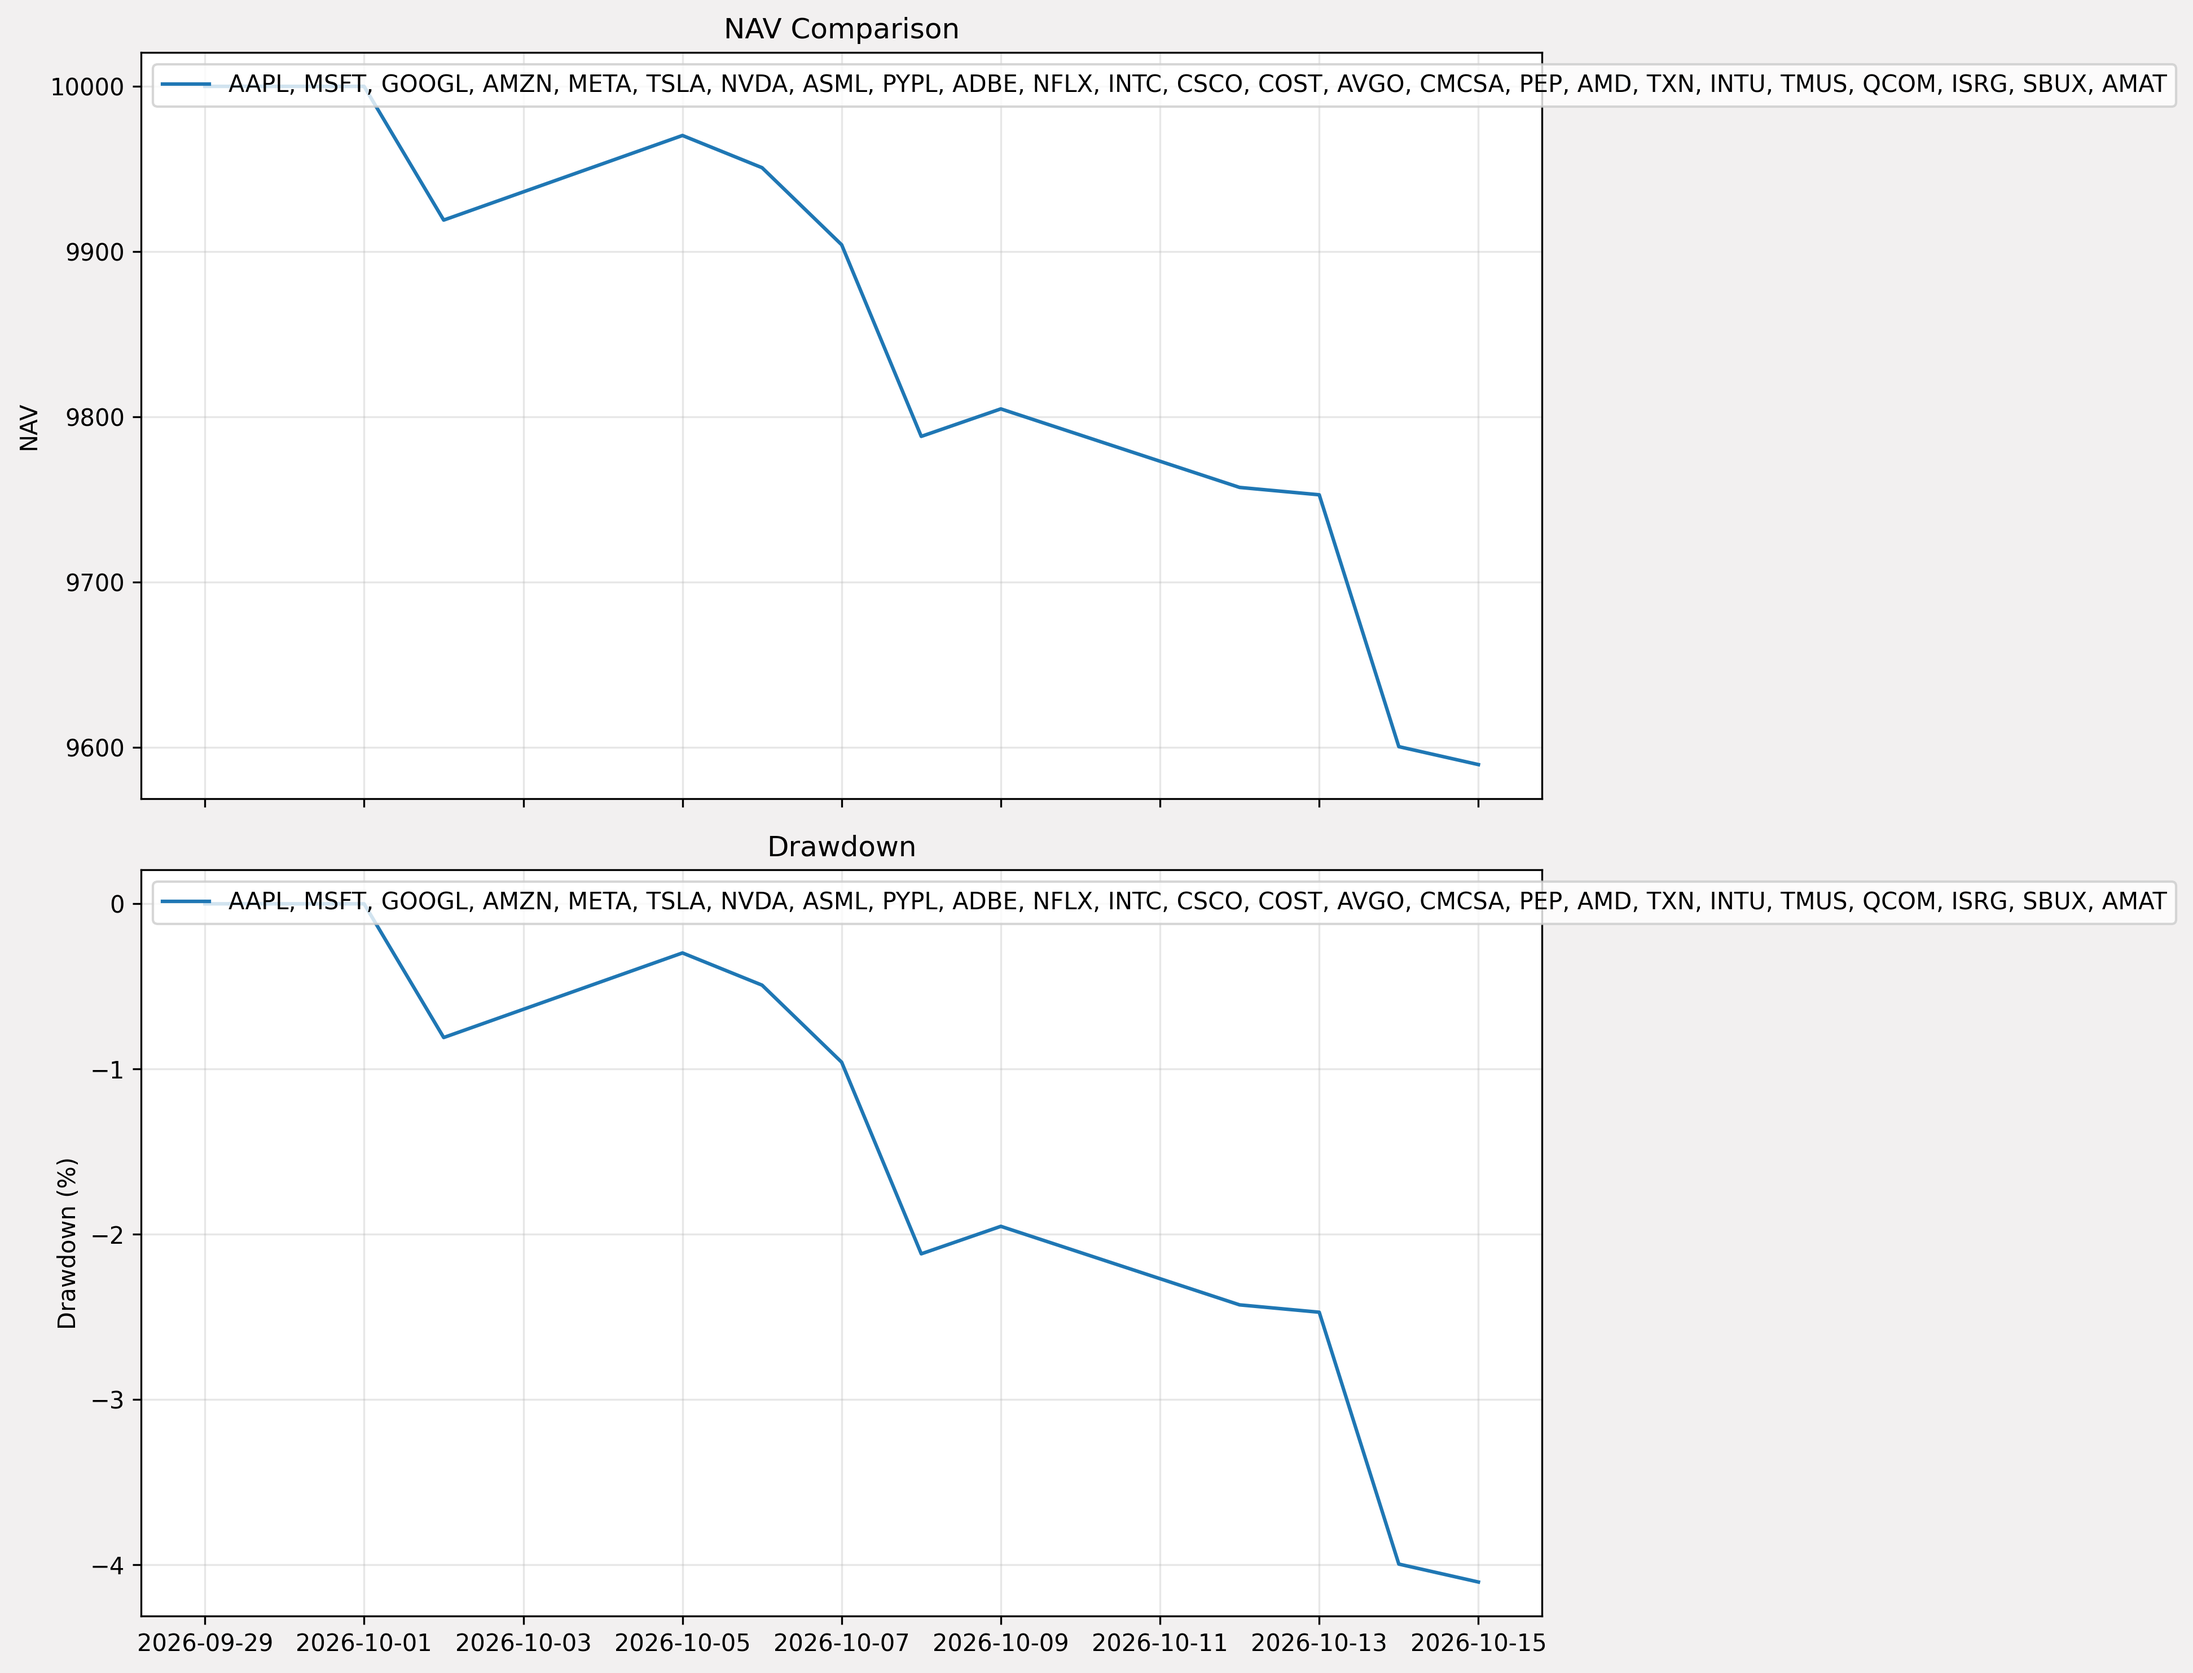
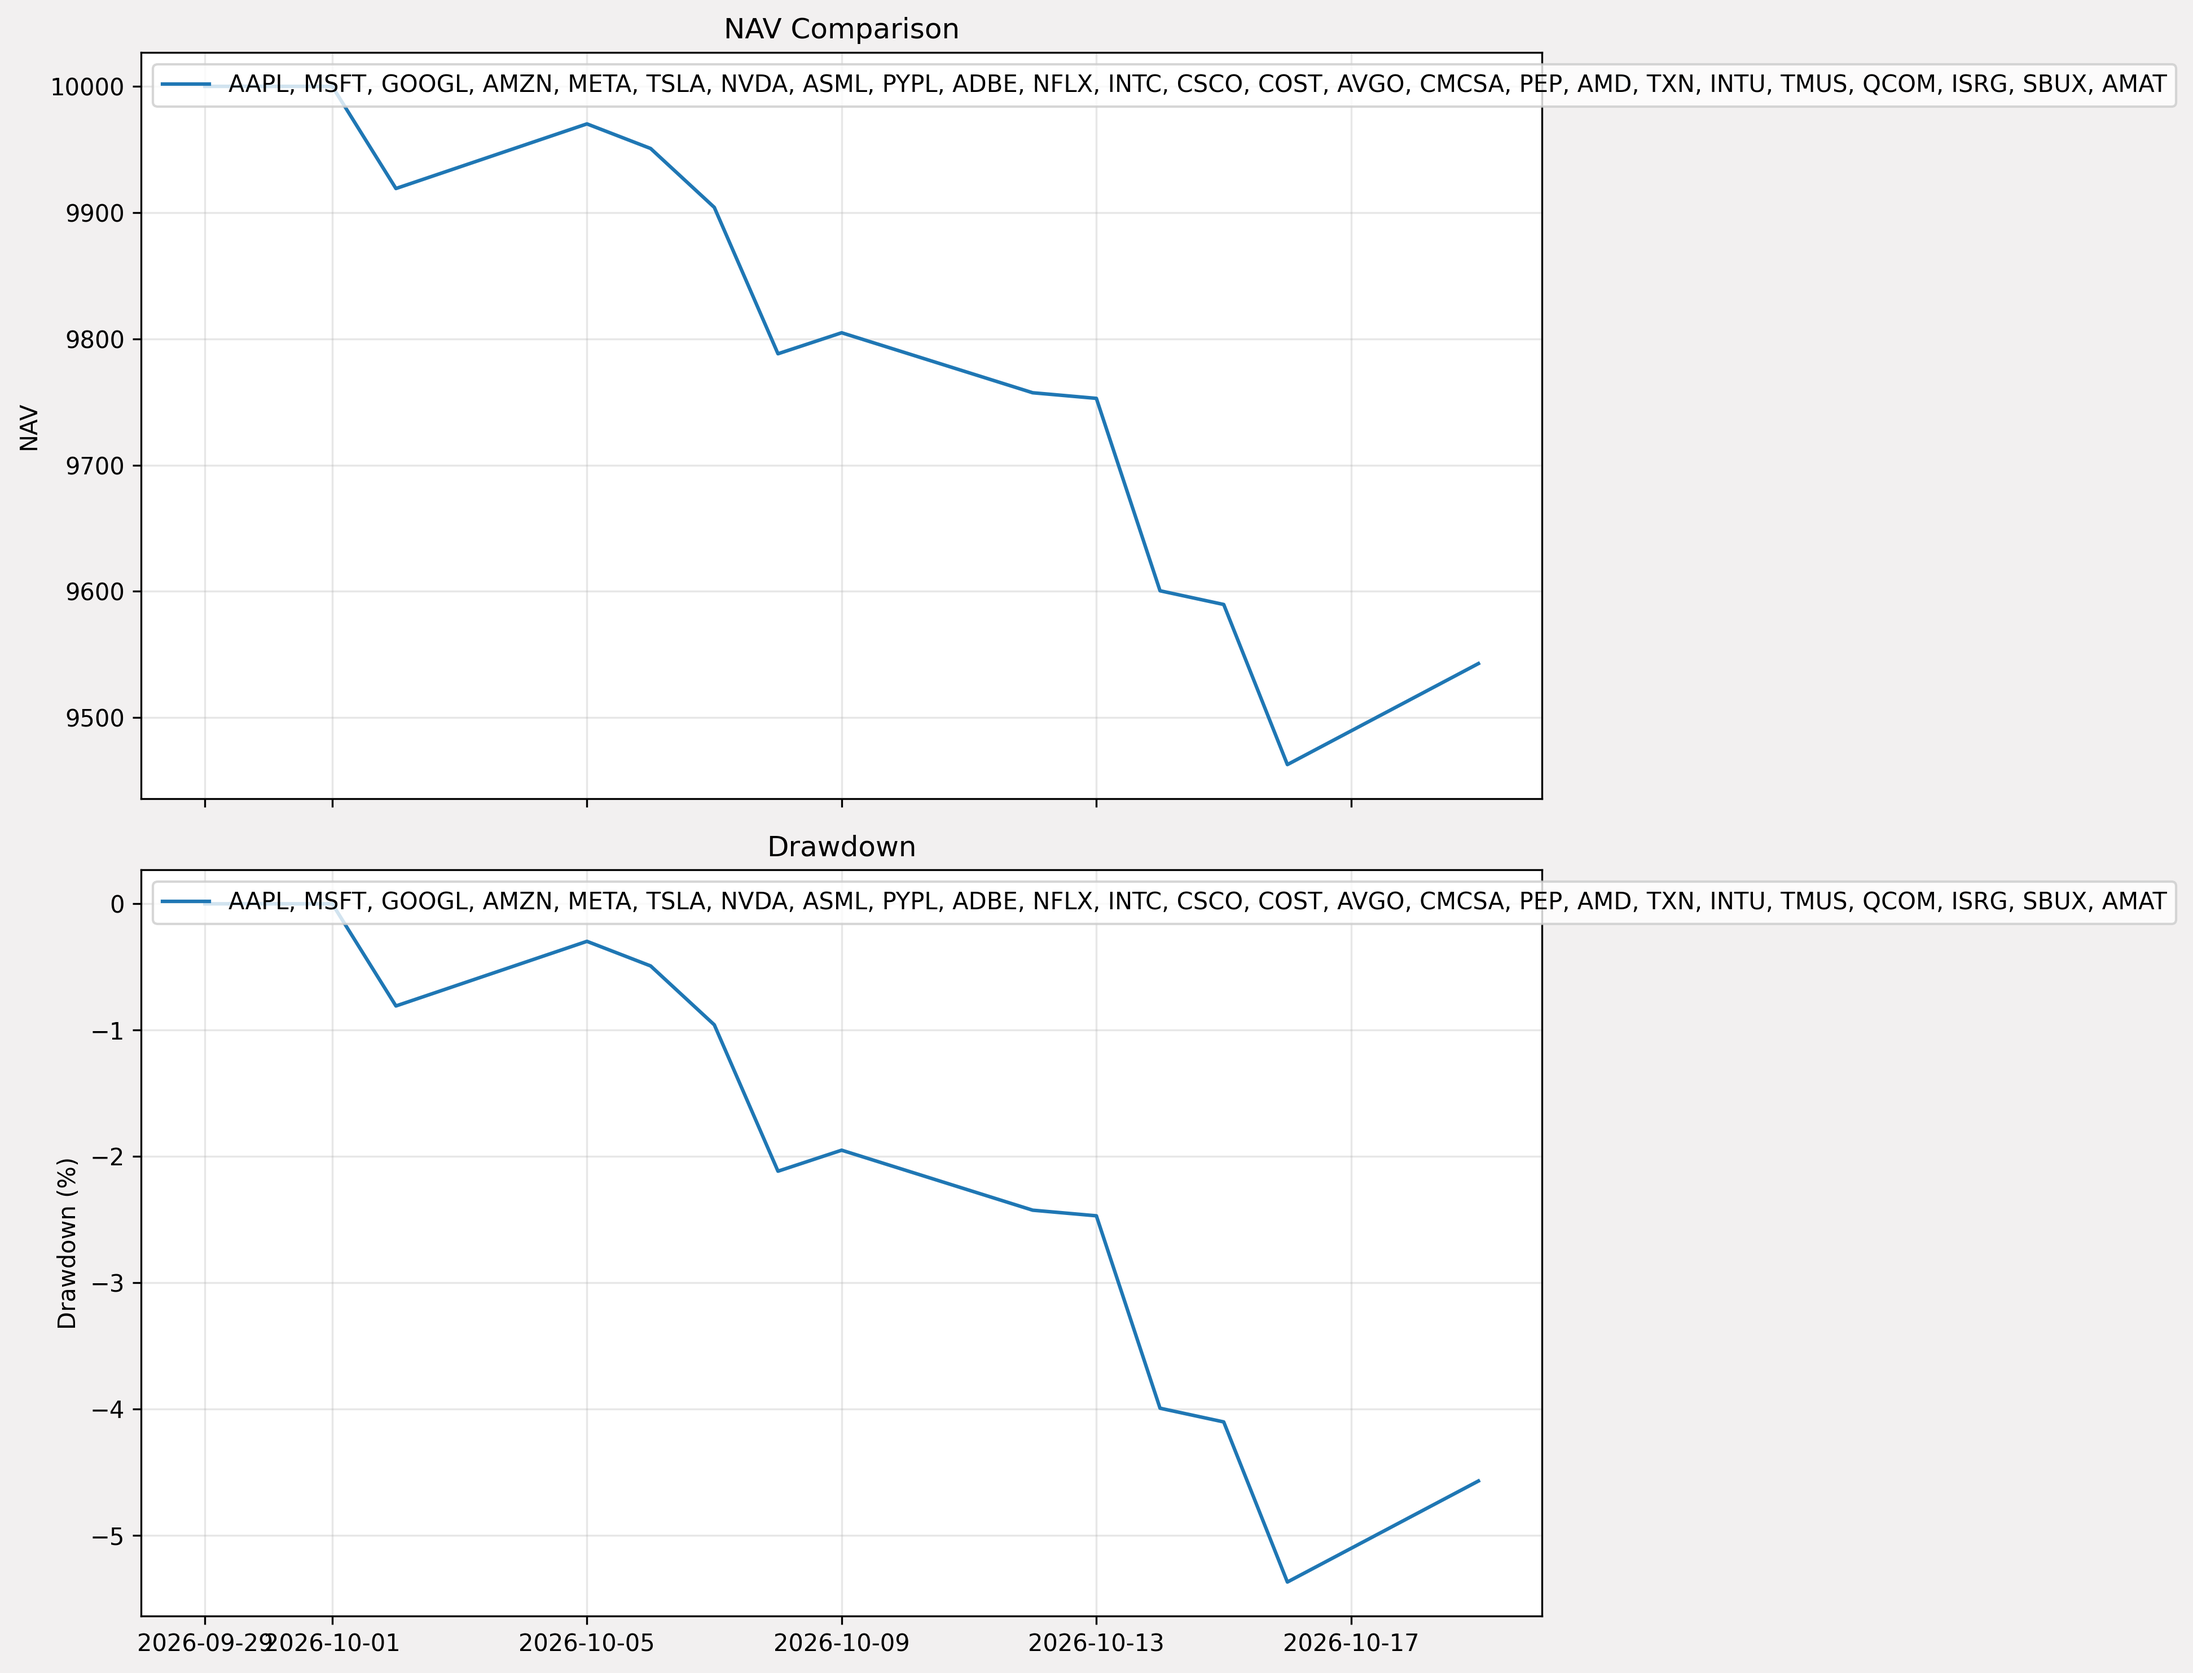
chore: auto-update paper trade reports

diff --git a/docs/paper_trade.md b/docs/paper_trade.md
@@ -15,15 +15,15 @@
 
 | Metric | Value |
 |--------|-------|
-| Total Return | -4.10% |
-| Sharpe Ratio | -13.19 (Period=8 少過 20 日) |
-| Max Drawdown | -4.10% |
-| Win Rate | 0.00% (n=4) |
-| Total Trades | 4 |
-| Open Positions | 13 |
+| Total Return | -4.57% |
+| Sharpe Ratio | -9.67 (Period=10 少過 20 日) |
+| Max Drawdown | -5.37% |
+| Win Rate | 0.00% |
+| Total Trades | 5 |
+| Open Positions | 12 |
 
-*Period: 2026-09-29 → 2026-10-15*
-*Last updated: 2026-10-16 13:07*
+*Period: 2026-09-29 → 2026-10-19*
+*Last updated: 2026-10-19 23:36*
 
 ---
 
